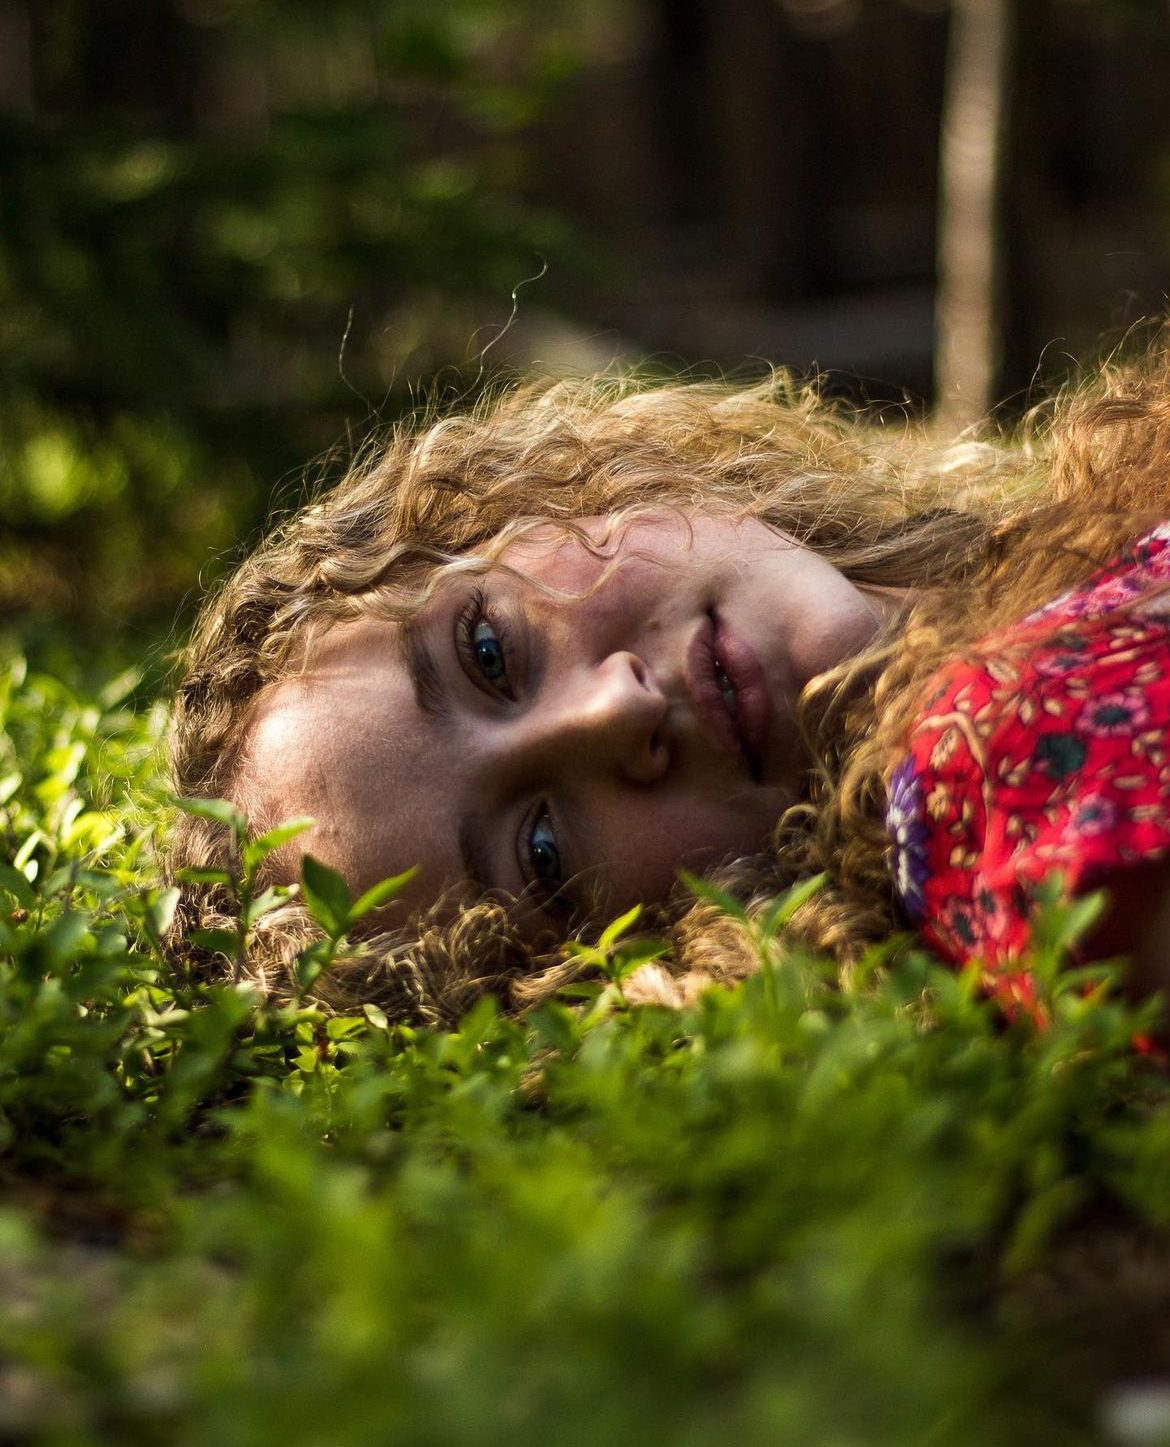
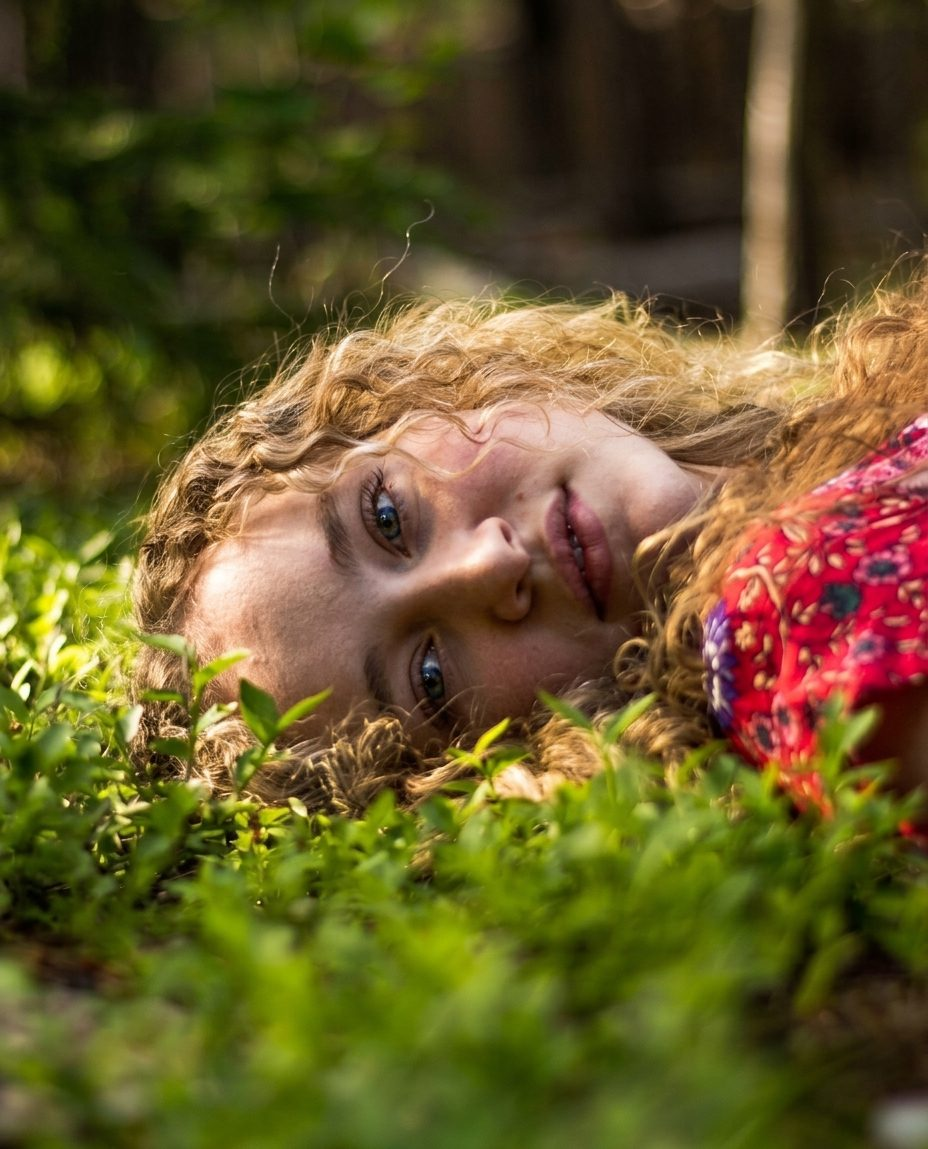
Photography: brighter greenery portrait; restore ring-detail couple shot

diff --git a/photography/index.html b/photography/index.html
@@ -114,7 +114,7 @@
       <figure><img src="assets/couples-06.jpg" alt="Couple in a golden field"></figure>
       <figure><img src="assets/wedding-02.jpg" alt="Outdoor wedding ceremony"></figure>
       <figure><img src="assets/film-02.jpg" alt="Couple at a mountain lake"></figure>
-      <figure><img src="assets/couples-02.jpg" alt="Couple laughing in a field of flowers"></figure>
+      <figure><img src="assets/couples-02.jpg" alt="Ring detail, hands on shoulders"></figure>
       <figure><img src="assets/couples-07.jpg" alt="Couple close together at sunset"></figure>
       <figure><img src="assets/wedding-03.jpg" alt="Reception details"></figure>
       <figure><img src="assets/film-03.jpg" alt="Couple walking at a mountain lake"></figure>
